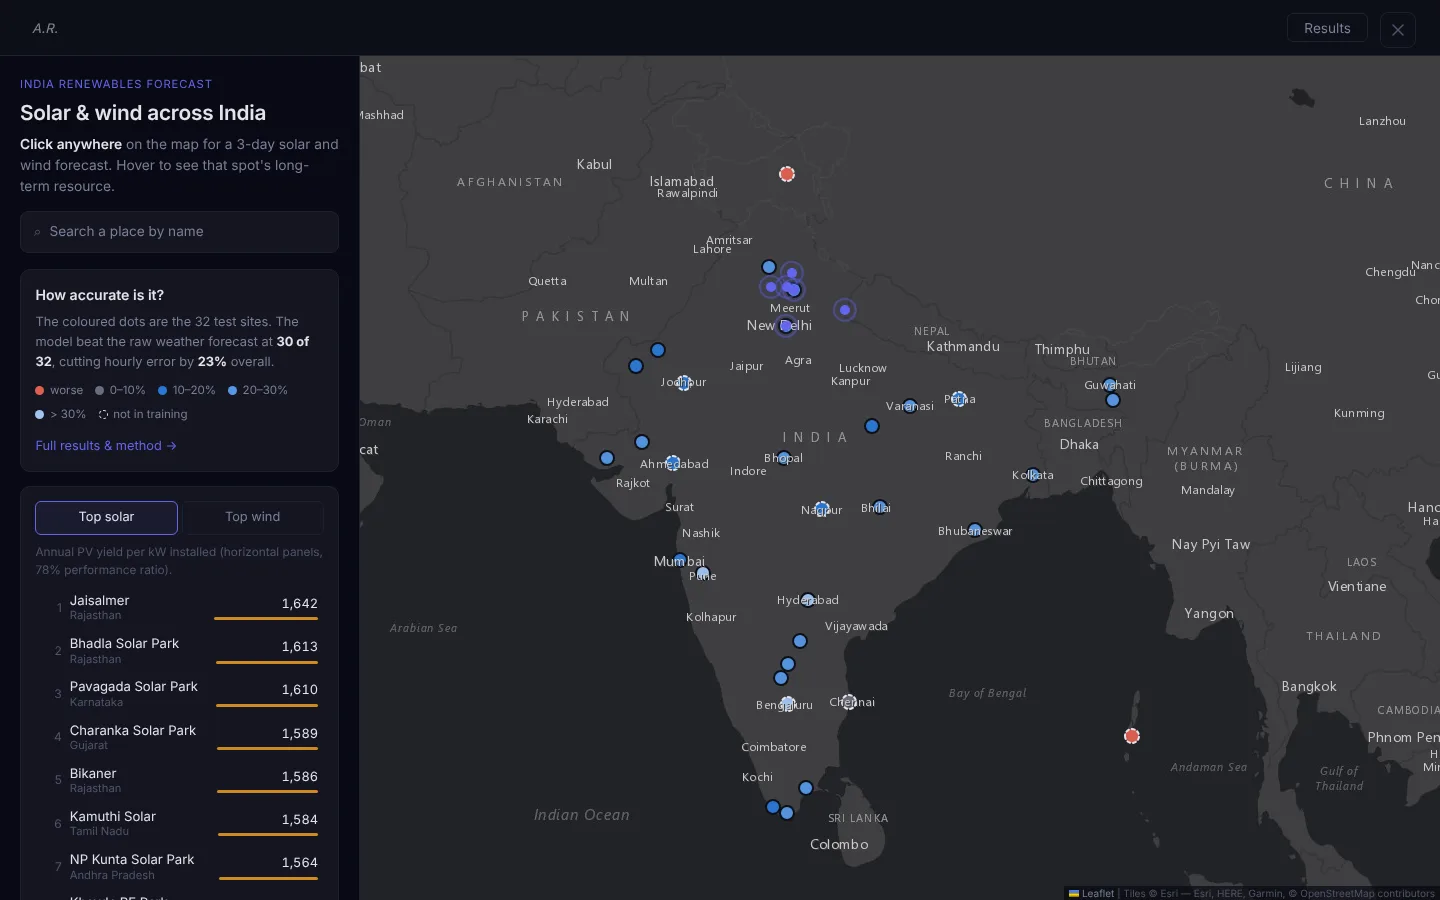
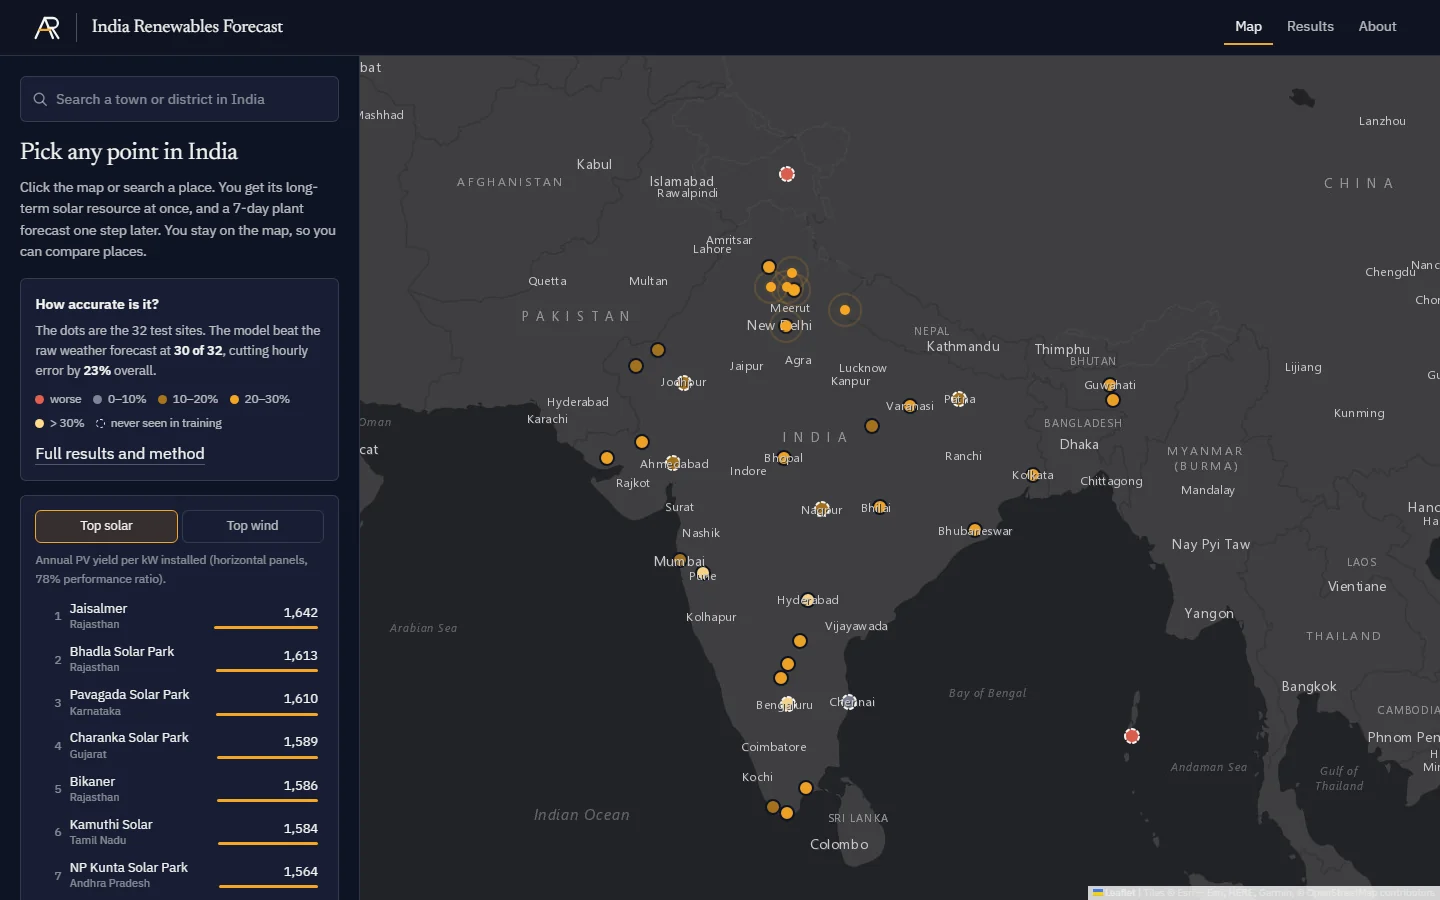
Refresh the app screenshots and describe the 7-day plant forecast
New captures of the redesigned app (map and a 50 MW plant forecast at Bhadla);
captions and llms.txt no longer say 3-day.

diff --git a/src/components/FeaturedProject.jsx b/src/components/FeaturedProject.jsx
@@ -33,7 +33,7 @@ function FeaturedProject() {
           <h2 className="section-head__title">India Renewables Forecast</h2>
           <p className="section-head__lead">
             A forecasting platform that gives a solar and wind baseline for any location in India.
-            Click a point on the map to get a 3-day PV and wind generation forecast, alongside the
+            Click a point on the map to get a 7-day generation forecast for your plant, alongside the
             long-term resource for that site.
           </p>
         </div>
@@ -110,12 +110,12 @@ function FeaturedProject() {
               url="app.abhijeetrathore.in"
               images={['/images/app/forecast-map.webp', '/images/app/forecast-results.webp']}
               ratio={1440 / 900}
-              label="Screenshots of the India Renewables Forecast app: the India map with the 32 test sites coloured by model skill, and the results page"
+              label="Screenshots of the India Renewables Forecast app: the India map with the 32 test sites coloured by model skill, and a 7-day forecast for a 50 MW plant at Bhadla"
             />
           </a>
           <figcaption className="featured__shot-caption">
             The live app: click anywhere in India for a forecast. Coloured dots are the 32 test sites, shaded by
-            how much the model beats the raw weather forecast. The second view is the results page.
+            how much the model beats the raw weather forecast. The second view is a 7-day forecast for a 50 MW plant.
           </figcaption>
         </figure>
       </div>

diff --git a/src/case-study/CaseStudy.jsx b/src/case-study/CaseStudy.jsx
@@ -180,10 +180,10 @@ function CaseStudy() {
               url="app.abhijeetrathore.in"
               images={['/images/app/forecast-map.webp', '/images/app/forecast-results.webp']}
               ratio={1440 / 900}
-              label="Screenshots of the live app: the India map and the results page"
+              label="Screenshots of the live app: the India map and a 7-day plant forecast"
             />
           </a>
-          <figcaption>Try it: click anywhere in India for a 3-day solar and wind forecast.</figcaption>
+          <figcaption>Try it: click anywhere in India for a 7-day forecast of your plant.</figcaption>
         </figure>
 
         <div className="cs-end">
